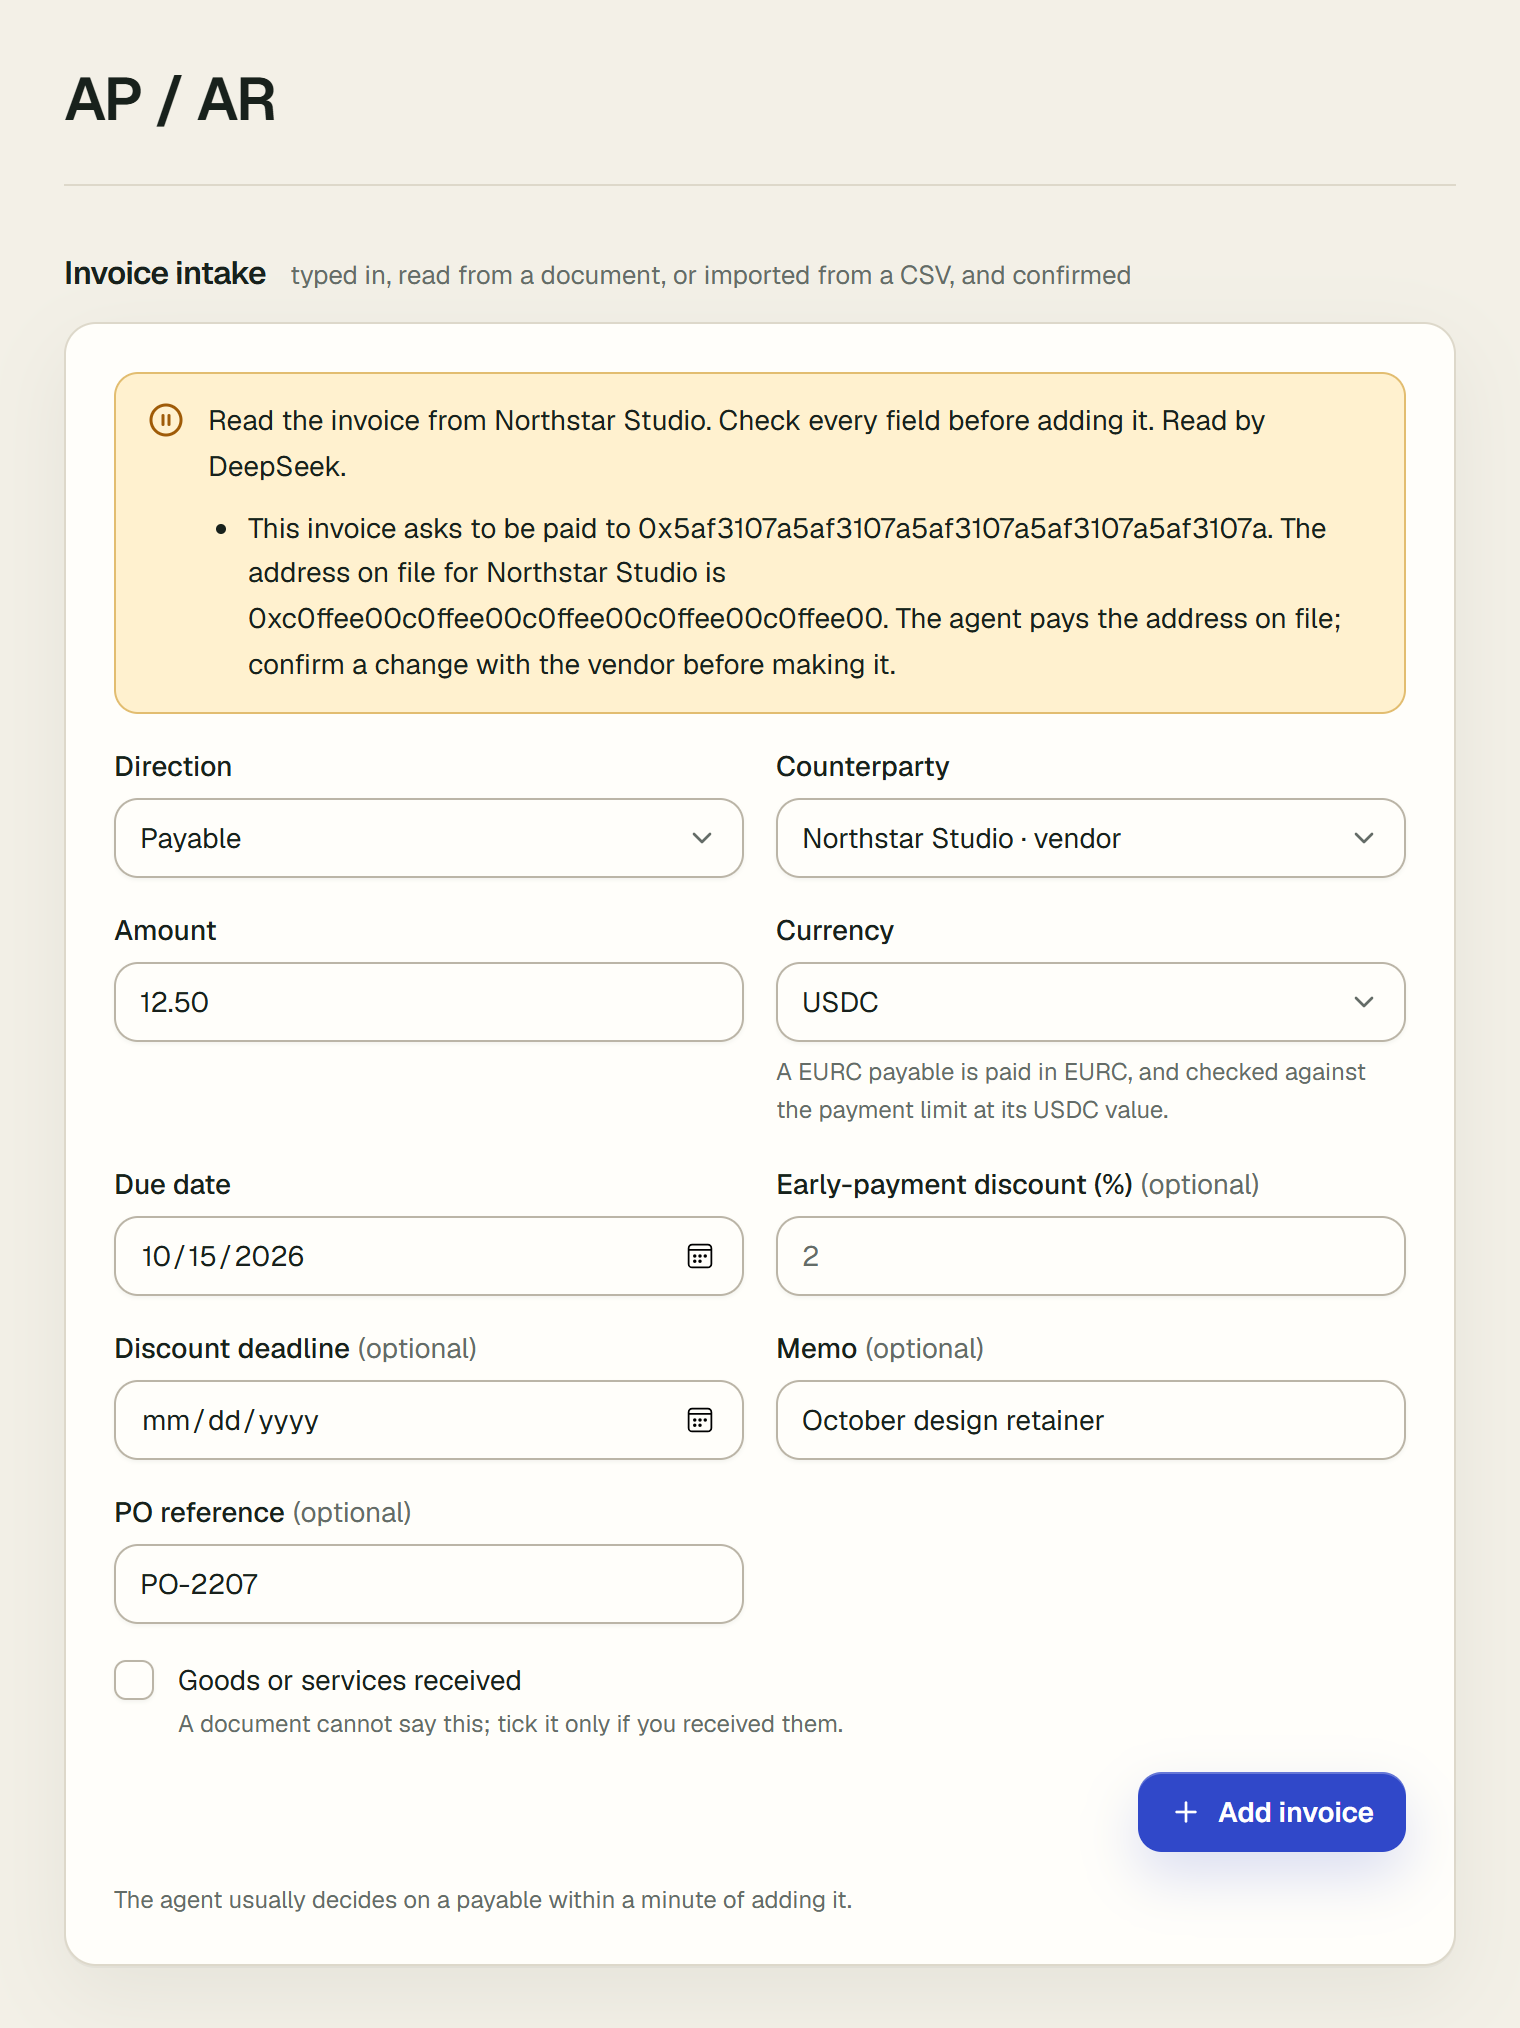
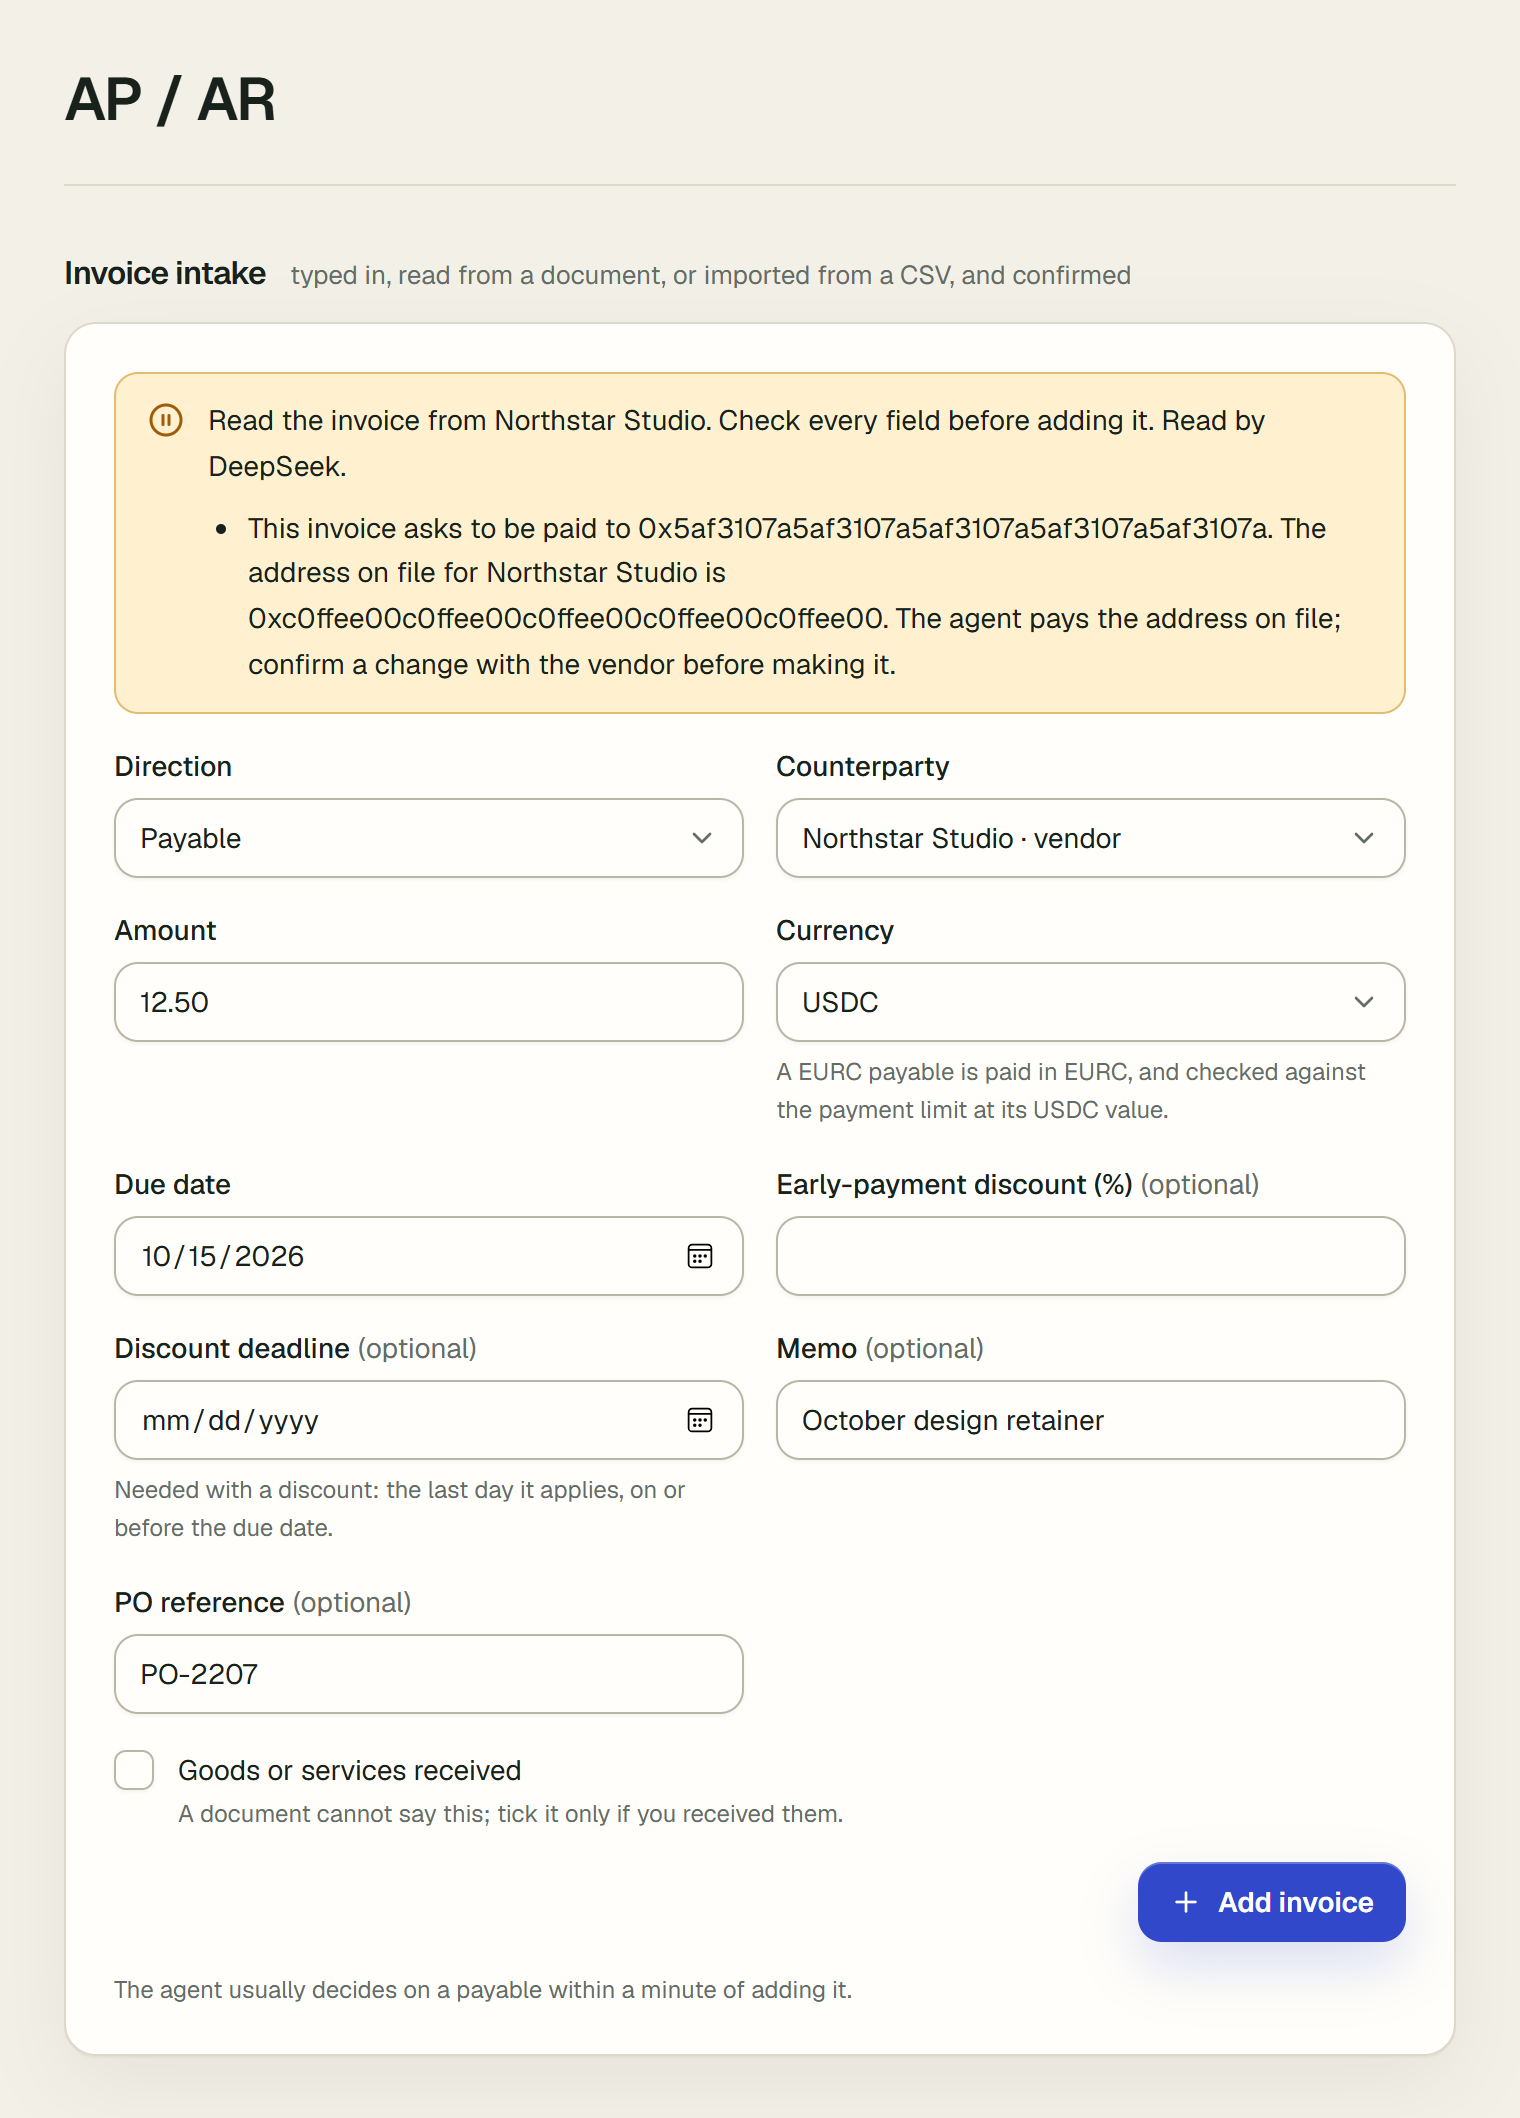
Describe the discount deadline rule in the first-payment guide
The guide now says a discount needs its deadline, quotes the form's
description and its error, and says what happens when a document gives
a percent without a deadline. The invoice form screenshots are retaken.

diff --git a/tests/docs-guides.test.ts b/tests/docs-guides.test.ts
@@ -291,6 +291,9 @@ const QUOTED: Record<GuideSlug, Array<readonly [string, string]>> = {
     ["Remove the sample data first. It exists only to try the agent with simulated payments.", GO_LIVE_LIBRARY],
     ["Early-payment discount (%)", INVOICE_FORM],
     ["Discount deadline", INVOICE_FORM],
+    ["Needed with a discount: the last day it applies, on or before the due date.", INVOICE_FORM],
+    ["Enter the last day the discount applies, on or before the due date, or clear the discount.", "src/lib/intake-validation.ts"],
+    ["The discount deadline was left blank: the invoice does not give one that could be read. Enter the last day the discount applies, or clear the discount.", "src/lib/invoice-document/normalize.ts"],
     ["Scheduled for", MAP],
     ["% off if paid by", MAP],
     ["Not yet decided", MAP],
